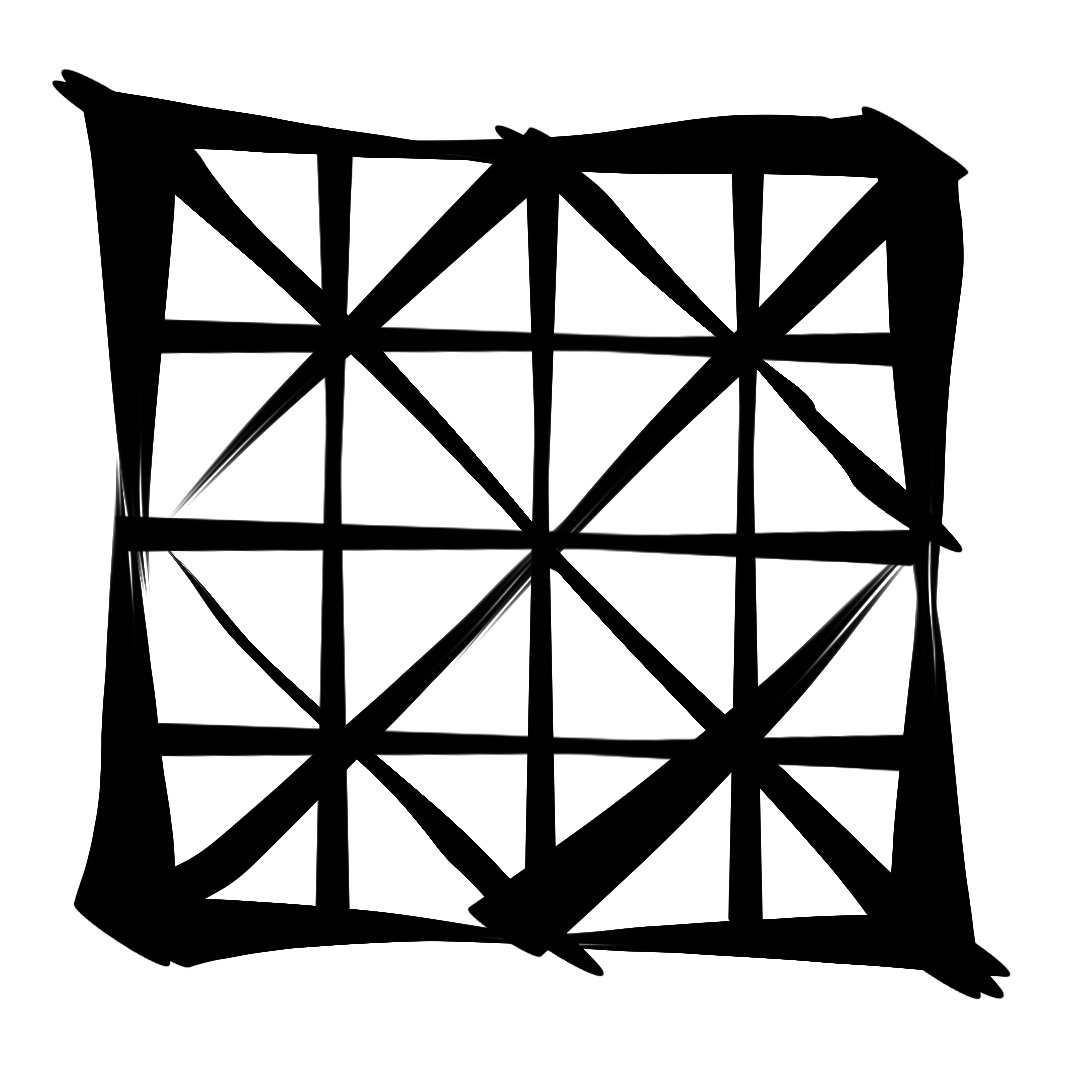
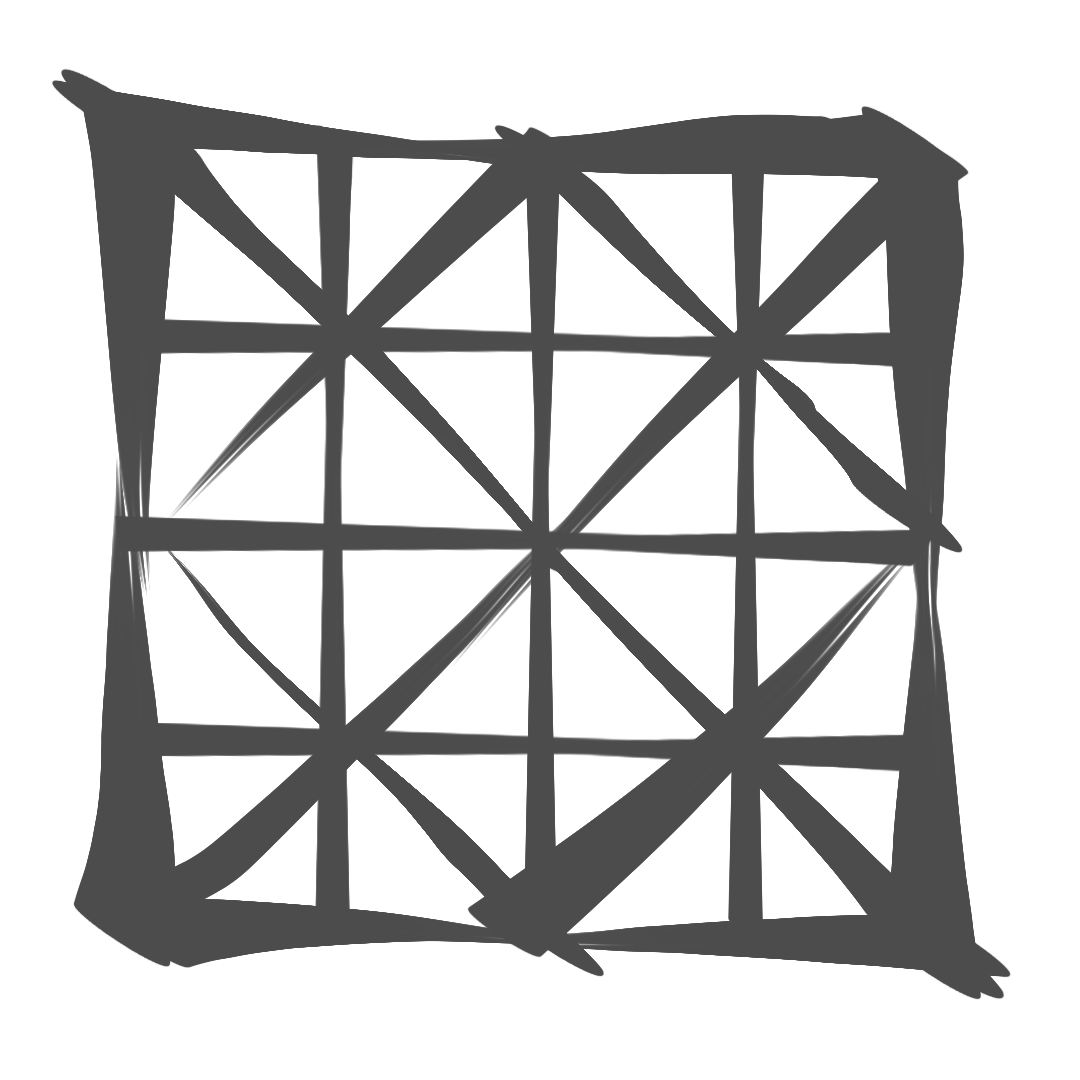
Lowered Opacity of Board + Removed cout

diff --git a/client/spriteHandler.cpp b/client/spriteHandler.cpp
@@ -244,14 +244,11 @@ void renderHighlights(Board &board, sf::Vector2i gridPos)
         {
             if (moves[i][j] != 0)
             {
-                cout << gridPos.x + moves[i][j] * (i - 1) << " " << gridPos.y + moves[i][j] * (j - 1) << endl;
                 Highlight &highlight = board.highlights[gridPos.x + moves[i][j] * (i - 1)][gridPos.y + moves[i][j] * (j - 1)];
                 highlight.move.x = i;
                 highlight.move.y = j;
                 highlight.base = gridPos;
-                cout << highlight.sprite.getPosition().x << " " << highlight.sprite.getPosition().y << endl;
                 highlight.sprite.setScale({gridBoxSize.x / textureSize.x, gridBoxSize.y / textureSize.y});
-                cout << highlight.sprite.getScale().x << " " << highlight.sprite.getScale().y << endl;
             }
         }
     }
